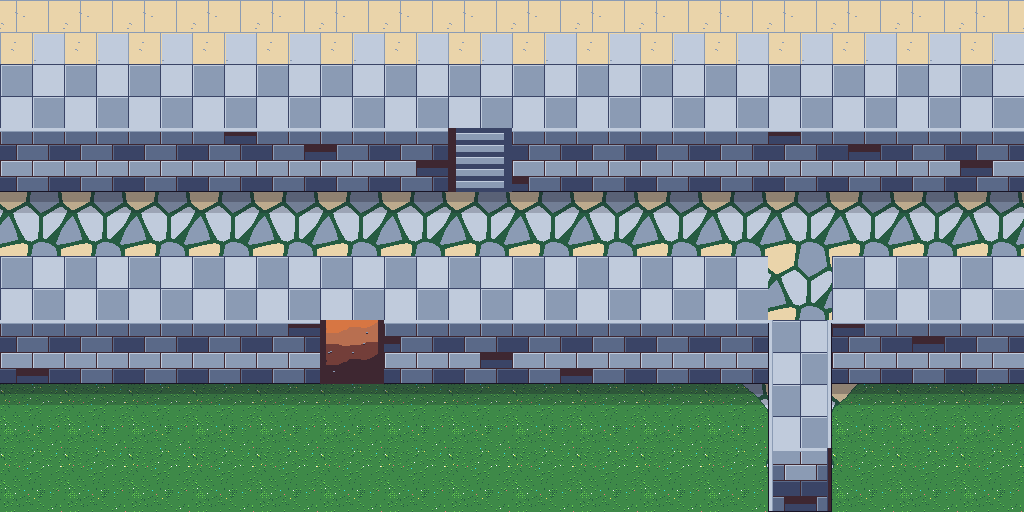
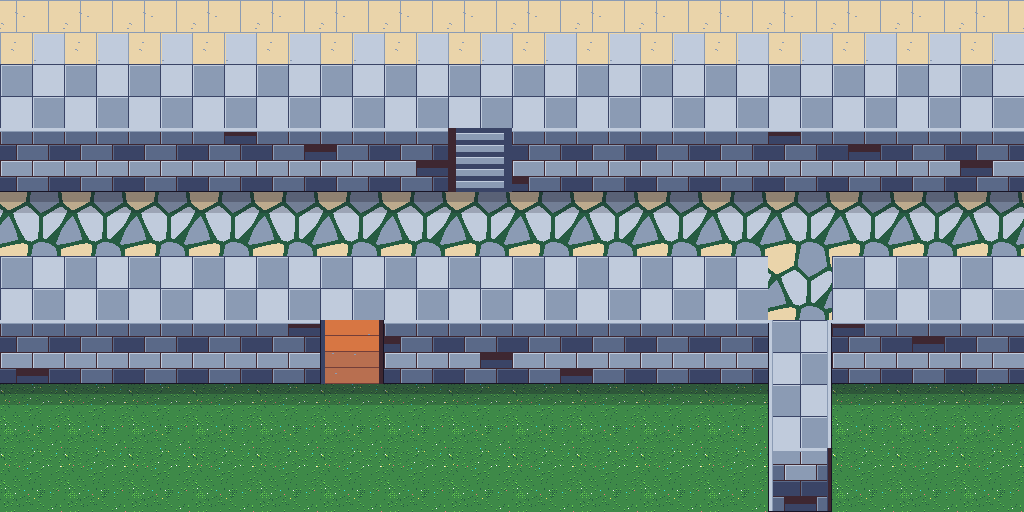
Pareti e terreni: niente sbordi, rombi o scatolette (imperfezioni segnalate)
- compose_ground(strati, duri): bordi netti solo nei dislivelli di roccia, spiagge sfumate
- mura: case che toccano il muro tolte intere; cima a lastre
- macchie di terreno e di altezza sotto 6 caselle assorbite (8-connesse, la sabbia resta)
- rampe chiare con fianchi tagliati; arenaria vista dall'alto a lastre spaccate
- strade, luoghi, villaggi, alberi e sottosuolo identici all'approvato

Claude-Session: https://claude.ai/code/session_014ycMSkFAn8ixUvbSfrqtAR

Changed region(s): [[0.3125, 0.625, 0.375, 0.75], [0.8125, 0.75, 0.8438, 0.8125], [0.7188, 0.75, 0.75, 0.7812]]

diff --git a/tools/art/build_world.py b/tools/art/build_world.py
@@ -35,7 +35,7 @@ from PIL import Image, ImageDraw, ImageFont
 
 HERE = os.path.dirname(os.path.abspath(__file__))
 sys.path.insert(0, HERE)
-from forge3d.pareti import disegna as disegna_pareti, maschera as maschera_pareti, terreno_sotto  # noqa: E402
+from forge3d.pareti import disegna as disegna_pareti, maschera as maschera_pareti, strati as strati_pareti, terreno_sotto  # noqa: E402
 from forge3d.terrain import ORDER, build_atlas  # noqa: E402
 from forge3d.world import LEVEL, World, fbm  # noqa: E402
 from forge3d.worldrender import render_world, save  # noqa: E402
@@ -82,6 +82,13 @@ def nb4(y, x):
     for dy, dx in ((1, 0), (-1, 0), (0, 1), (0, -1)):
         if 0 <= y + dy < H and 0 <= x + dx < W:
             yield y + dy, x + dx
+
+
+def nb8(y, x):
+    for dy in (-1, 0, 1):
+        for dx in (-1, 0, 1):
+            if (dy or dx) and 0 <= y + dy < H and 0 <= x + dx < W:
+                yield y + dy, x + dx
 
 
 def sposta(a, dy, dx, fill=False):
@@ -617,6 +624,7 @@ def genera(seed):
     # il mare sta un livello sotto la terra: dove la costa ha un materiale (Valle, Marche) diventa scogliera,
     # le spiagge (senza materiale) restano spiagge
     altezza[~land & (altezza == 0)] = -1
+    assorbi_macchie(altezza, ~land)                     # rialzi o buche di poche caselle = scatolette isolate
     faccia = maschera_pareti(altezza, mat_par)
     pas = np.full((H, W), ".", "<U1")
     # rampa: nasce in cima a un tratto di parete dritto (pareti a sinistra e a destra) e scende per tutta l'altezza
@@ -671,9 +679,59 @@ def genera(seed):
                           "mat": "stone_light", "moss": False})
     w.objects.sort(key=lambda o: o["y"])
     sotto = genera_sottosuolo(seed, R, land, acqua, centro, rovine_boss, porto, rnd, rng, g)
-    w.ground = terreno_sotto(w.ground, altezza, mat_par)       # dopo tutto il resto: strade, alberi e sottosuolo non cambiano
+    # case che toccano le mura: la casella accanto al muro torna strada (il muro non attraversa le case)
+    muro = mat_par == "mura"
+    vicino = np.zeros_like(muro)
+    for sy, sx in ((1, 0), (-1, 0), (0, 1), (0, -1), (1, 1), (1, -1), (-1, 1), (-1, -1)):
+        vicino |= sposta(muro, sy, sx)
+    case = (g == L["stone"]) & ~muro
+    lab, _ = componenti(case)
+    via = np.isin(lab, np.unique(lab[vicino & case])[1:])         # la casa intera, non solo la casella accanto
+    while via.any():                                             # il vuoto prende la strada vicina, dai bordi in dentro
+        prima = via.sum()
+        for sy, sx in ((1, 0), (-1, 0), (0, 1), (0, -1)):
+            da = via & ~sposta(via, sy, sx, True) & ~sposta(muro, sy, sx) & (sposta(g, sy, sx, -1) >= 0) \
+                & (sposta(g, sy, sx, -1) != L["stone"])
+            g[da] = sposta(g, sy, sx, -1)[da]
+            via &= ~da
+        if via.sum() == prima:
+            g[via] = L["ciottoli_scuri"]
+            break
+    # dopo tutto il resto (strade, alberi e sottosuolo non cambiano): terreno della cima sotto le pareti, poi le
+    # macchie troppo piccole (diventerebbero rombi isolati) prendono il terreno attorno
+    w.ground = terreno_sotto(w.ground, altezza, mat_par)
+    assorbi_macchie(w.ground, faccia)
     applica_spostati(luoghi, villaggi, sotto)
     return w, luoghi, villaggi, sotto
+
+
+def assorbi_macchie(g, fisso, minimo=6):
+    """Macchie di terreno con meno di `minimo` caselle: la sfumatura dual grid ne fa rombi isolati. Prendono il
+    terreno piu' comune attorno. Strade, fiumi e pontili sono lunghi e restano. `fisso`: caselle da non toccare."""
+    vista = fisso.copy()
+    piccole = []
+    for y0, x0 in zip(*np.nonzero(~fisso)):
+        if vista[y0, x0]:
+            continue
+        t = g[y0, x0]
+        vista[y0, x0] = True
+        pila, parte = [(y0, x0)], [(y0, x0)]
+        while pila:
+            y, x = pila.pop()
+            for ny, nx in nb8(y, x):                        # anche in diagonale: una costa a scalini e' una fascia sola
+                if not vista[ny, nx] and g[ny, nx] == t:
+                    vista[ny, nx] = True
+                    pila.append((ny, nx))
+                    parte.append((ny, nx))
+        if len(parte) < minimo:
+            piccole.append(parte)
+    for parte in piccole:
+        dentro = set(parte)
+        attorno = [int(g[ny, nx]) for y, x in parte for ny, nx in nb4(y, x) if (ny, nx) not in dentro and not fisso[ny, nx]]
+        if attorno:
+            nuovo = max(set(attorno), key=attorno.count)
+            for y, x in parte:
+                g[y, x] = nuovo
 
 
 def applica_spostati(luoghi, villaggi, sotto):
@@ -957,11 +1015,13 @@ MATERIALI_PARETE = ["", "arenaria", "roccia", "mura"]
 def ritaglio(w, box, alt, mat, pas, atl, oggetti=True, pareti=True):
     """Pezzo di mappa a tile vere (32 px), con le pareti sopra il terreno e sotto gli oggetti."""
     x0, y0, x1, y1 = box
-    strato = None
+    strato, st, du = None, None, None
     if pareti:
         ya = max(0, y0 - 3)                                    # le pareti nascono dalle righe sopra il ritaglio
         strato = disegna_pareti(alt[ya:y1, x0:x1], mat[ya:y1, x0:x1], pas[ya:y1, x0:x1], S=32)[(y0 - ya) * 32:]
-    return render_world(w, box, atlases=atl, with_objects=oggetti, sopra=strato)
+        st, du = np.zeros(alt.shape, int), np.zeros(alt.shape, bool)
+        st[ya:y1, x0:x1], du[ya:y1, x0:x1] = strati_pareti(alt[ya:y1, x0:x1], mat[ya:y1, x0:x1])
+    return render_world(w, box, atlases=atl, with_objects=oggetti, sopra=strato, strati=st, duri=du)
 
 
 def main():

diff --git a/tools/art/forge3d/terrain.py b/tools/art/forge3d/terrain.py
@@ -127,8 +127,10 @@ TERRAINS = {
                       rimc="brown_dd", level=7.2, contrast=0.15),
     "terra_bruciata": dict(ramp=["ink", "brown_dd", "brown_dd", "slate_d"], period=4, dither=0.5, detail="dots", rim="dark",
                            rimc="ink", level=7.4, contrast=0.4),
-    "arenaria": dict(ramp=["brown_dd", "brown_d", "brown_d", "rust"], period=4, dither=0.4, detail="strata", bande=4,
-                     rim="cliff", rimc="brown_dd", level=9.0),
+    # vista dall'alto: lastre di roccia spaccate (le strisce sono della PARETE, forge3d/pareti.py: se la cima avesse
+    # le strisce non si capirebbe dove finisce il pianoro e comincia la parete)
+    "arenaria": dict(ramp=["brown_dd", "brown_d", "brown", "rust"], period=4, dither=0.4, detail="cobbles", cells=5,
+                     rim="dark", rimc="brown_dd", level=9.0, contrast=0.6),
 }
 ORDER = sorted(TERRAINS, key=lambda k: TERRAINS[k]["level"])
 
@@ -351,8 +353,13 @@ def build_atlas(name, S=TILE, seed=3):
     return atlas
 
 
-def compose_ground(levels, atlases=None, S=TILE, frame=0, seed=3):
-    """levels: array HxW di nomi/indici (indice in ORDER). Ritorna immagine RGBA (H*S, W*S)."""
+def compose_ground(levels, atlases=None, S=TILE, frame=0, seed=3, strati=None, duri=None):
+    """levels: array HxW di nomi/indici (indice in ORDER). Ritorna immagine RGBA (H*S, W*S).
+    strati: HxW di interi (es. l'altezza). Dove due caselle vicine stanno su strati diversi (un dislivello)
+    i terreni NON si sfumano: ogni quarto di casella che tocca un altro strato prende il terreno pieno della
+    sua casella, con un bordo netto (lo copre il contorno della parete o della cima).
+    duri: HxW booleani, la casella ha un bordo di roccia (materiale da parete). Il bordo netto c'e' solo se la
+    piu' alta delle due caselle e' dura: una spiaggia sul mare (piu' basso ma senza parete) resta sfumata."""
     lv = np.asarray(levels)
     H, W = lv.shape
     if atlases is None:
@@ -377,4 +384,30 @@ def compose_ground(levels, atlases=None, S=TILE, frame=0, seed=3):
             blk = big[i * S:(i + 1) * S, j * S:(j + 1) * S]
             a = tile[..., 3:4] > 0
             blk[...] = np.where(a, tile, blk)
-    return big[h2:h2 + H * S, h2:h2 + W * S].copy()
+    out = big[h2:h2 + H * S, h2:h2 + W * S].copy()
+    if strati is not None:
+        st = np.pad(np.asarray(strati), 1, mode="edge")
+        du = np.pad(np.ones((H, W), bool) if duri is None else np.asarray(duri, bool), 1, mode="edge")
+
+        def netto(a, b):
+            if st[a] == st[b]:
+                return False
+            return bool(du[a] if st[a] > st[b] else du[b])
+
+        for i in range(H):
+            for j in range(W):
+                c = (i + 1, j + 1)
+                for qy in (0, 1):
+                    for qx in (0, 1):
+                        dy, dx = (-1, 1)[qy], (-1, 1)[qx]
+                        if not (netto(c, (i + 1 + dy, j + 1)) or netto(c, (i + 1, j + 1 + dx))
+                                or netto(c, (i + 1 + dy, j + 1 + dx))):
+                            continue
+                        at = atlases[ORDER[lv[i, j]]]
+                        fr = frame % (at.shape[0] // S)
+                        pieno = at[fr * S:(fr + 1) * S, 15 * S:16 * S]    # tile pieno (maschera 15)
+                        y0, x0 = i * S + qy * h2, j * S + qx * h2
+                        # il tile pieno e' allineato ai vertici: nel ritaglio e' spostato di mezzo tile
+                        out[y0:y0 + h2, x0:x0 + h2] = pieno[(qy * h2 + h2) % S:(qy * h2 + h2) % S + h2,
+                                                              (qx * h2 + h2) % S:(qx * h2 + h2) % S + h2]
+    return out

diff --git a/tools/art/forge3d/pareti.py b/tools/art/forge3d/pareti.py
@@ -95,13 +95,16 @@ def tile(mat, k, d, sx=None, dx=None, passaggio=None, col=0, S=64, seed=5, base=
         img = pal[np.clip(np.where((Yf % g) < g * 0.35, 1, 3 + ((Yf % g) < g * 0.5)), 0, len(ramp) - 1)]
         img[x < S // 8] = pal[0]; img[x >= S - S // 8] = pal[1]
     elif passaggio == "R":                                     # rampa: sentiero di terra che scende, bordi in ombra
+        # rampa: pendio di terra battuta rivolto verso di noi (quindi in luce), gradini di terra, fianchi tagliati
         pr = np.array([_rgb(c) for c in RAMPA])
-        v = 3 - np.minimum(3, ((Yf + nz[(y * 2) % S, x] * S / 3) * 4) // Hf).astype(int)  # chiara in alto
-        img = pr[np.clip(v, 0, 3)]
+        img = pr[np.where(Yf < Hf // 2, 3, 2)]
+        img[(Yf % (S // 4)) == S // 4 - 1] = pr[1]
         rs = np.random.RandomState(seed * 1000 + col * 7 + k)          # sassi sparsi, deterministici
-        for sx_, sy_ in rs.randint(S // 8, S - S // 8, (6, 2)):
-            img[sy_, sx_:sx_ + 2] = _rgb("grey"); img[sy_ + 1, sx_:sx_ + 2] = pr[0]
-        img[(x < S // 10) | (x >= S - S // 10)] = pr[0]
+        for sx_, sy_ in rs.randint(S // 6, S - S // 6, (4, 2)):
+            img[sy_, sx_:sx_ + 2] = _rgb("grey")
+        fi = max(2, S // 12)
+        img[:, :fi] = pal[1]; img[:, S - fi:] = pal[0]                # fianchi del taglio nella parete
+        img[:, 0] = _rgb("ink"); img[:, S - 1] = _rgb("ink")
     lw = _spessore(S)
     if sx == "est":                                            # spigolo sinistro, in luce
         img[:, 1:lw + 1] = pal[-1]; img[:, lw + 1] = pal[-2]; img[:, 0] = _rgb("ink")
@@ -121,12 +124,9 @@ def _spessore(S):
 
 def tile_ombra(sx=False, dx=False, S=64, angolo=False):
     """Ombra a terra sotto la parete: fascia di inchiostro semitrasparente, spostata a destra (luce a sinistra).
-    angolo: a destra la parete prosegue una riga piu' in basso (gradino): l'angolo sporgente fa ombra anche
-    nel quarto in alto a destra, dove il terreno della cima smussa l'angolo."""
+    angolo: non usato (lo smusso del terreno al piede non c'e' piu': compose_ground(strati=...))."""
     y, x = np.mgrid[0:S, 0:S]
     a = np.where(y < S // 6, 110, np.where(y < S // 3, 55, 0))
-    if angolo:
-        a = np.where((S - 1 - x) + y < S * 0.6, 110, a)              # triangolo verso l'angolo in alto a destra
     if sx:
         a = np.where(x < S // 4, 0, a)
     out = np.zeros((S, S, 4), np.uint8)
@@ -211,6 +211,19 @@ def _estremo(alt, e, y, x, dxx):
     if xx < 0 or xx >= W or e[y, xx]:
         return "cont"
     return "int" if alt[y, xx] > alt[y, x] else "est"
+
+
+def strati(alt, mat=None):
+    """(strati, duri) per compose_ground: lo strato e' l'altezza, ma una casella di parete sta sullo strato della
+    sua cima (il terreno sotto la parete e' quello della cima e non deve sbordare al piede); dura = ha un bordo di
+    roccia (materiale, o parete)."""
+    st = np.array(alt, copy=True)
+    duri = _con_materiale(mat, st.shape).copy()
+    f = facce(alt, mat)
+    for y, x in zip(*np.nonzero(np.vectorize(lambda v: v is not None)(f))):
+        st[y, x] = st[f[y, x][2], x]
+        duri[y, x] = True
+    return st, duri
 
 
 def terreno_sotto(ground, alt, mat=None):

diff --git a/tools/art/forge3d/worldrender.py b/tools/art/forge3d/worldrender.py
@@ -39,11 +39,14 @@ def object_sprite(o, S=TILE):
     return _cache[key]
 
 
-def render_world(w, region=None, S=TILE, with_objects=True, frame=0, atlases=None, tint=None, sopra=None):
+def render_world(w, region=None, S=TILE, with_objects=True, frame=0, atlases=None, tint=None, sopra=None, strati=None,
+                 duri=None):
     """region=(x0,y0,x1,y1) in celle. Ritorna un'immagine RGBA.
     sopra: strato RGBA grande come il terreno (es. pareti), disegnato sopra il terreno e sotto gli oggetti."""
     x0, y0, x1, y1 = region or (0, 0, w.W, w.H)
-    g = compose_ground(w.ground[y0:y1, x0:x1], atlases=atlases, S=S, frame=frame)
+    g = compose_ground(w.ground[y0:y1, x0:x1], atlases=atlases, S=S, frame=frame,
+                       strati=None if strati is None else strati[y0:y1, x0:x1],
+                       duri=None if duri is None else duri[y0:y1, x0:x1])
     if sopra is not None:
         a = sopra[..., 3:4].astype(float) / 255.0
         g[..., :3] = (sopra[..., :3] * a + g[..., :3] * (1 - a)).astype(np.uint8)

diff --git a/tools/art/campioni_pareti.py b/tools/art/campioni_pareti.py
@@ -17,7 +17,7 @@ from PIL import Image
 HERE = os.path.dirname(os.path.abspath(__file__))
 sys.path.insert(0, HERE)
 from forge3d import terrain as T  # noqa: E402
-from forge3d.pareti import disegna, terreno_sotto  # noqa: E402
+from forge3d.pareti import disegna, strati, terreno_sotto  # noqa: E402
 
 OUT = os.path.join(HERE, "..", "..", "arte", "pareti")
 
@@ -67,7 +67,7 @@ def scena(mat, terreni, S=64):
         p = np.pad(alt, 1, mode="edge")
         bordo = (p[2:, 1:-1] < alt) | (p[1:-1, :-2] < alt) | (p[1:-1, 2:] < alt) | (p[:-2, 1:-1] < alt)
         mats[~bordo] = ""
-    base = Image.fromarray(T.compose_ground(terreno_sotto(ground, alt, mats), S=S))
+    base = Image.fromarray(T.compose_ground(terreno_sotto(ground, alt, mats), S=S, strati=strati(alt, mats)[0], duri=strati(alt, mats)[1]))
     strato = Image.fromarray(disegna(alt, mats, pas, S=S))
     base.alpha_composite(strato)
     return base

diff --git a/arte/revisione_arte.md b/arte/revisione_arte.md
@@ -192,7 +192,9 @@ Legenda: 🔴 alta (rovina la leggibilità o va decisa prima del Blocco C/D) ·
 > `world_prova.json` (`altezza`, `parete`, `passaggi`), prima/dopo in `arte/mondo/pareti_prima_dopo_*.png`.
 > Raccordi (2026-10-14, dopo due segnalazioni dell'utente): bordo continuo che gira gli angoli, spigoli
 > netti, terreno della cima sotto la parete, mare a -1 per le scogliere, cima delle mura a lastre.
-> In Godot le pareti come muri arrivano con US-8B12.
+> Poi (stesso giorno): niente sfumature attraverso i dislivelli di roccia, case liberate lungo le mura,
+> niente rombi o scatolette isolate, rampe chiare, arenaria vista dall'alto a lastre.
+> In Godot le pareti come muri (e i bordi netti tra strati) arrivano con US-8B12.
 
 - **Cosa:** tutto è una texture vista dall'alto. Al "passo tra due rupi" le rupi sono
   strisce di arenaria per terra; i gradoni delle Marche non si vedono; le scogliere sono
